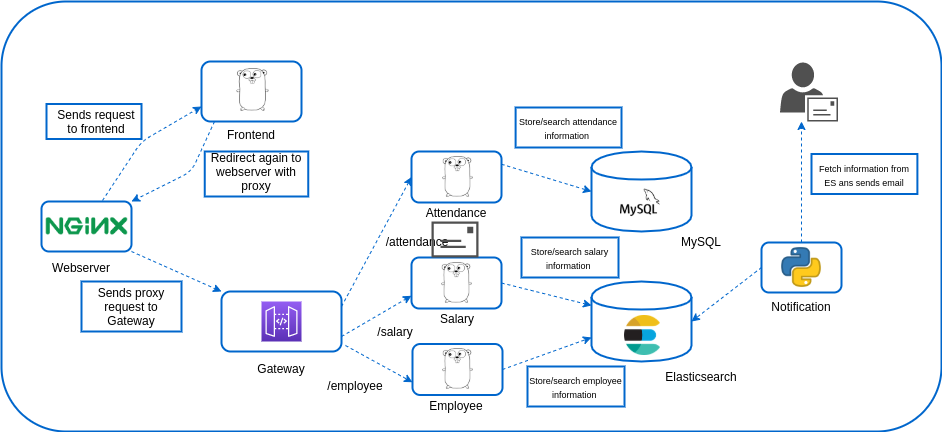
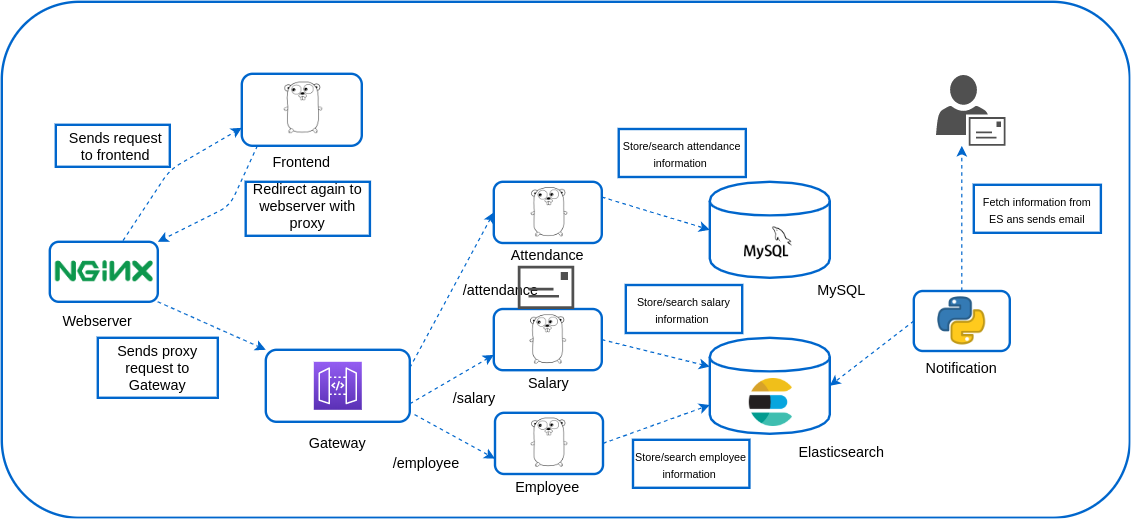
Updated architecture diagram

diff --git a/README.md b/README.md
@@ -41,7 +41,7 @@ For further information, click on the DB.
 The architecture of the complete microservice interaction looks like this:-
 
 <div align="center">
-  <img src="./static/architecture.svg">
+  <img src="./static/architecture.png">
 </div>
 
 ## Screenshot
